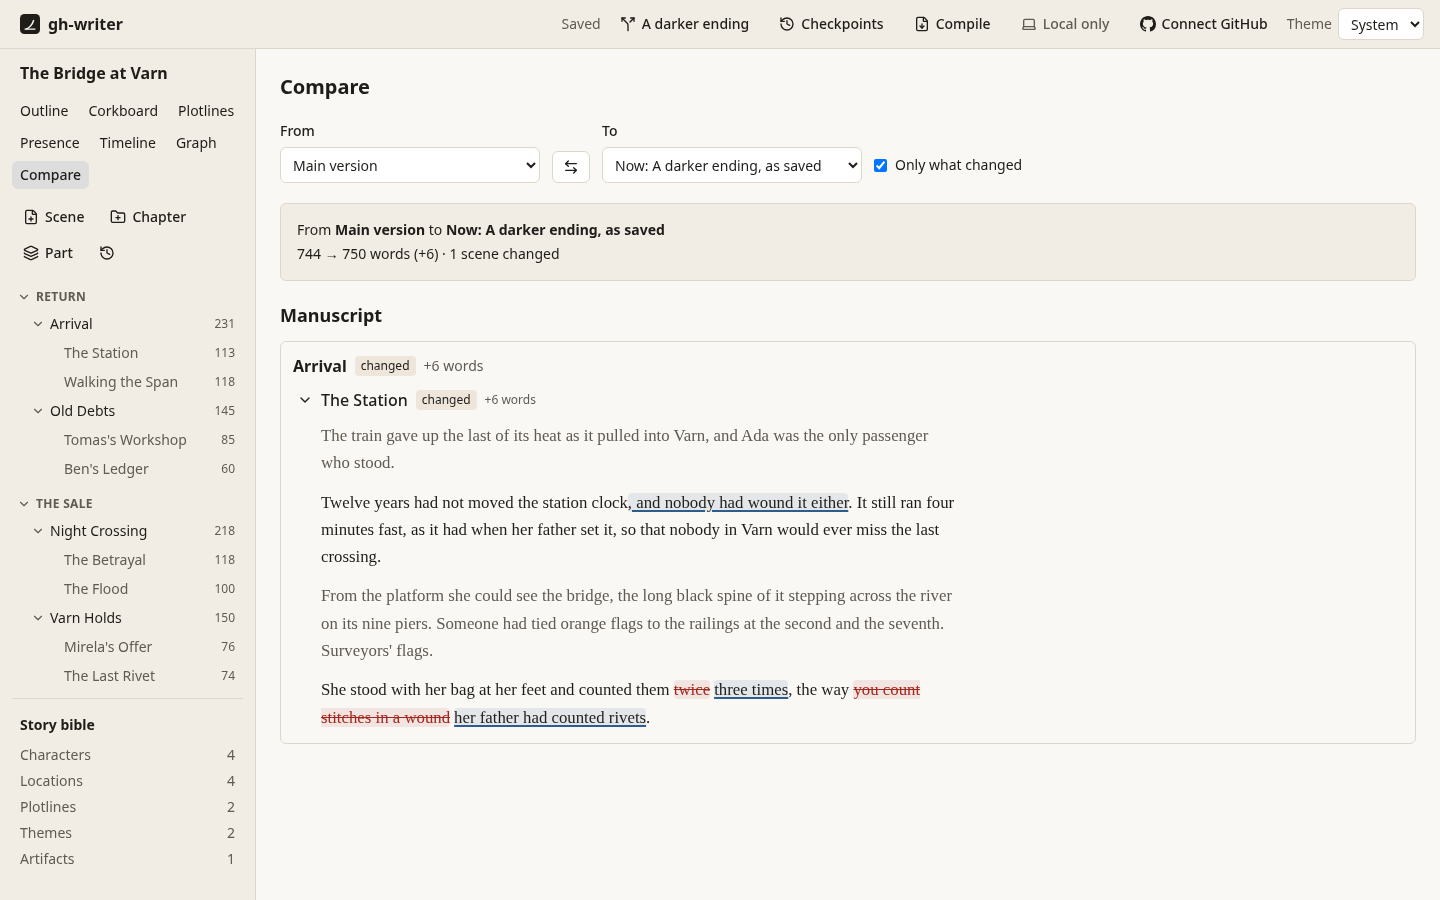
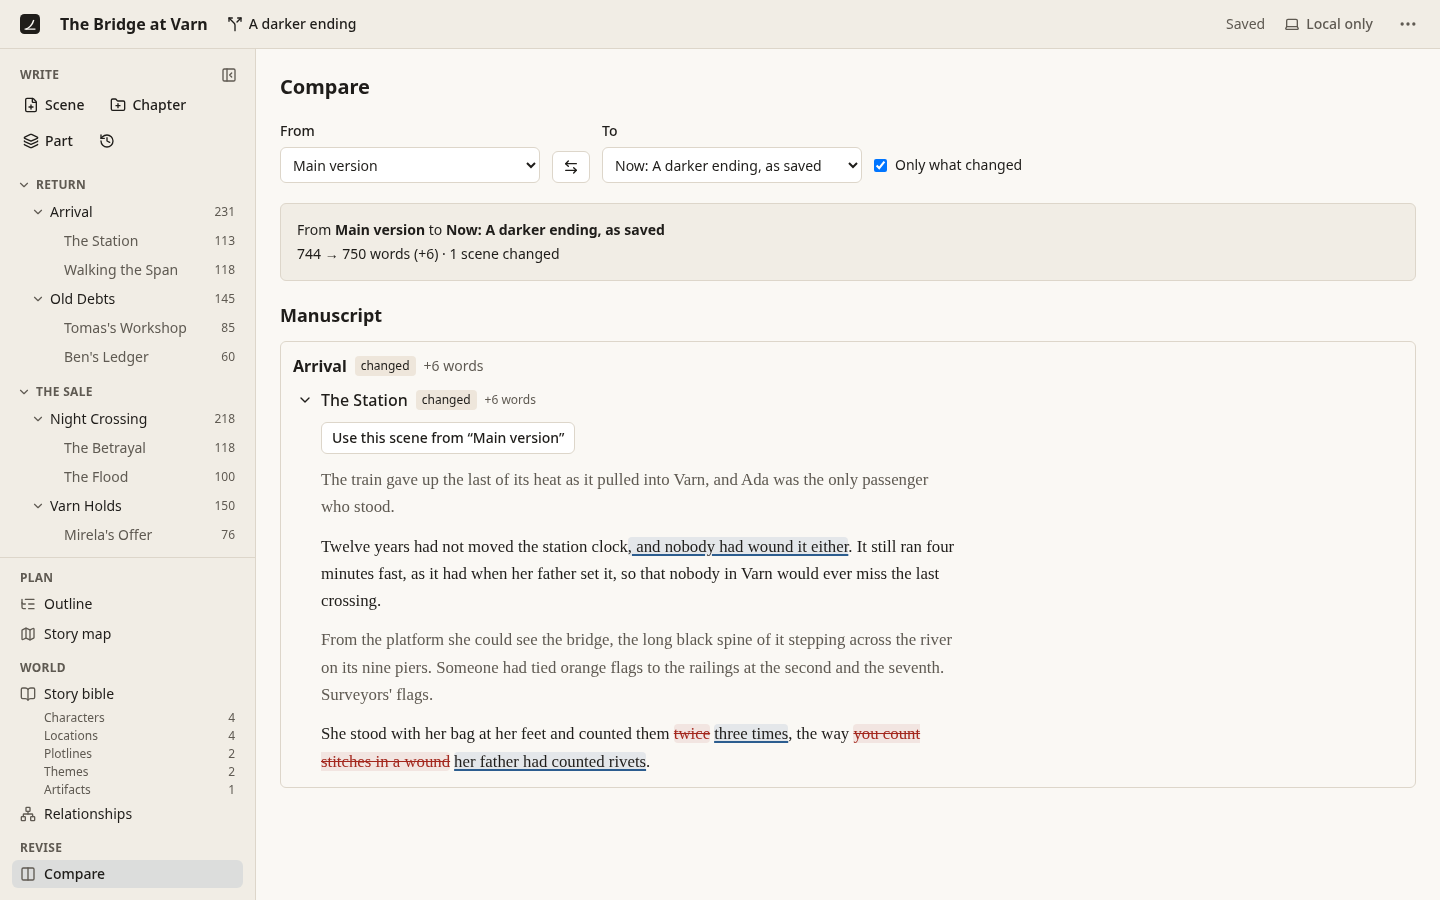
Document the new navigation, and retake the screenshots
USER.md has a Finding your way section (the top bar and its ⋯ menu, the
sidebar's Write, Plan, World and Revise groups and how to collapse it);
Outline as table or cards; the Story map's tabs and Relationships; and
Drafts, versions with their checkpoints, replacing the separate
Versions and Checkpoints sections. The README describes the calmer shell
and Drafts, with screenshots of the outline as cards, Relationships and
Drafts; the corkboard and graph screenshots are gone. Every screenshot
is retaken (npm run screenshots -w @gh-writer/web).

On the Story map's tabs, each view's Export (and New off-page event)
sits at the right again: the view's own title is now a hidden heading.

Refs #142

diff --git a/packages/web/e2e/screenshots.ts b/packages/web/e2e/screenshots.ts
@@ -3,7 +3,6 @@ import type { Page } from "@playwright/test";
 import { expect, test, type App } from "./fixtures.ts";
 
 const out = (name: string) => fileURLToPath(new URL(`../../../docs/screenshots/${name}.png`, import.meta.url));
-const views = (page: Page) => page.getByRole("navigation", { name: "Views" });
 
 /** Let transitions and fonts settle, then shoot. */
 async function shoot(page: Page, name: string) {
@@ -34,12 +33,39 @@ test("the writing view, light and dark, with a mention card", async ({ page, app
 });
 
 test("planning views", async ({ page, app }) => {
-  await open(page, app);
-  for (const [link, name] of [["Outline", "outline"], ["Corkboard", "corkboard"], ["Plotlines", "plotlines"], ["Presence", "presence"], ["Timeline", "timeline"], ["Graph", "graph"]] as const) {
-    await views(page).getByRole("link", { name: link }).click();
+  const id = await open(page, app);
+  for (const [path, name] of [
+    ["outline/table", "outline"],
+    ["outline/cards", "outline-cards"],
+    ["story-map/plotlines", "plotlines"],
+    ["story-map/presence", "presence"],
+    ["story-map/timeline", "timeline"],
+    ["relationships", "relationships"],
+  ] as const) {
+    await page.goto(new URL(`/novels/${id}/${path}`, app.url).href);
     await page.waitForTimeout(1200);
     await shoot(page, name);
   }
+});
+
+test("drafts: versions with their checkpoints", async ({ page, app }) => {
+  await open(page, app);
+  const drafts = page.getByRole("dialog", { name: "Drafts" });
+  await page.getByRole("button", { name: "Drafts: Main version is open" }).click();
+  await drafts.getByRole("textbox", { name: "New checkpoint" }).fill("First draft");
+  await drafts.getByRole("button", { name: "Make checkpoint" }).click();
+  await expect(drafts.getByRole("listitem")).toHaveCount(1);
+  await drafts.getByRole("textbox", { name: "New version" }).fill("A darker ending");
+  await drafts.getByRole("button", { name: "Start version" }).click();
+  await expect(page.getByRole("button", { name: "Drafts: A darker ending is open" })).toBeVisible();
+  await page.getByRole("button", { name: "Dismiss" }).click();
+  await page.getByRole("button", { name: "Drafts: A darker ending is open" }).click();
+  await drafts.getByRole("textbox", { name: "New checkpoint" }).fill("Bridge falls");
+  await drafts.getByRole("button", { name: "Make checkpoint" }).click();
+  await expect(drafts.getByRole("group", { name: "A darker ending" }).getByRole("listitem")).toHaveCount(1);
+  await drafts.getByRole("button", { name: /Checkpoints in “Main version”/ }).click();
+  await drafts.getByRole("textbox", { name: "New checkpoint" }).blur();
+  await shoot(page, "drafts");
 });
 
 test("the story bible", async ({ page, app }) => {
@@ -79,7 +105,7 @@ test("issues on GitHub", async ({ page, app }) => {
   app.github.addIssue("ada", "varn", { title: "Why does Mirela trust Ada so quickly?", labels: ["kind/plot-hole", "character/mirela-kost"] });
   app.github.addIssue("ada", "varn", { title: "Tighten the ledger scene", labels: ["kind/revision"] });
   await page.reload();
-  await views(page).getByRole("link", { name: "Issues" }).click();
+  await page.getByRole("navigation", { name: "Views" }).getByRole("link", { name: "Issues" }).click();
   await page.waitForTimeout(1200);
   await shoot(page, "issues");
 });

diff --git a/packages/web/src/presence/presence-page.tsx b/packages/web/src/presence/presence-page.tsx
@@ -101,7 +101,7 @@ export function PresencePage({ novelId, novel, workspace }: { novelId: string; n
 
   return (
     <div className="grid content-start gap-3 px-6 py-4">
-      <div className="flex flex-wrap items-baseline justify-between gap-3">
+      <div className="flex flex-wrap items-baseline justify-end gap-3">
         <h2 className="sr-only">Presence</h2>
         <ExportMenu name={`presence-${plural(label).toLowerCase()}`} svg={() => presenceSvg(novel, type, `${plural(label)} by scene`)} />
       </div>

diff --git a/packages/web/src/timeline/timeline-page.tsx b/packages/web/src/timeline/timeline-page.tsx
@@ -55,7 +55,7 @@ export function TimelinePage({ novelId, novel }: { novelId: string; novel: Novel
 
   return (
     <div className="grid content-start gap-4 px-6 py-4">
-      <div className="flex flex-wrap items-baseline justify-between gap-3">
+      <div className="flex flex-wrap items-baseline justify-end gap-3">
         <h2 className="sr-only">Timeline</h2>
         <div className="flex gap-2">
           <Button size="sm" onClick={() => setEditing("new")}>

diff --git a/packages/web/src/swimlanes/swimlanes-page.tsx b/packages/web/src/swimlanes/swimlanes-page.tsx
@@ -101,7 +101,7 @@ export function SwimlanesPage({ novelId, novel, workspace }: { novelId: string; 
 
   return (
     <div className="grid content-start gap-3 px-6 py-4">
-      <div className="flex flex-wrap items-baseline justify-between gap-3">
+      <div className="flex flex-wrap items-baseline justify-end gap-3">
         <h2 className="sr-only">Plotlines</h2>
         <ExportMenu name="plotlines" svg={() => plotlinesSvg(novel)} />
       </div>

diff --git a/USER.md b/USER.md
@@ -2,7 +2,7 @@
 
 This guide is for the person writing the book. It assumes gh-writer is installed and running (see [Getting started](README.md#getting-started)). You don't need to know git or GitHub: gh-writer uses them for you, and this guide says what happens in plain terms.
 
-**Contents:** [Your library](#your-library) · [Writing](#writing) · [Structure](#structure-parts-chapters-and-scenes) · [The story bible](#the-story-bible) · [Diagrams](#diagrams) · [Saving, sync and checkpoints](#saving-sync-and-checkpoints) · [Versions and comparing](#versions-and-comparing) · [GitHub](#github) · [Issues](#issues) · [Compiling](#compiling) · [Keyboard](#keyboard) · [Your files](#your-files) · [The command line](#the-command-line)
+**Contents:** [Your library](#your-library) · [Finding your way](#finding-your-way) · [Writing](#writing) · [Structure](#structure-parts-chapters-and-scenes) · [The story bible](#the-story-bible) · [Story map and relationships](#story-map-and-relationships) · [Saving and sync](#saving-and-sync) · [Drafts: versions and checkpoints](#drafts-versions-and-checkpoints) · [GitHub](#github) · [Issues](#issues) · [Compiling](#compiling) · [Keyboard](#keyboard) · [Your files](#your-files) · [The command line](#the-command-line)
 
 ## Your library
 
@@ -13,6 +13,19 @@ This guide is for the person writing the book. It assumes gh-writer is installed
 - **Clone from GitHub** copies a novel from GitHub, after you've connected (see [GitHub](#github)), listing your repositories to choose from.
 
 `npx gh-writer serve path/to/novel` opens one novel directly. Taking a novel out of the library leaves its folder alone.
+
+## Finding your way
+
+**The top bar** names the book and the version open (choose it to open [Drafts](#drafts-versions-and-checkpoints)), says whether your work is saved and synced, and keeps everything else in its **⋯** menu: Checkpoints, Compile, the theme (light, dark, or like your system), your GitHub account, and the keyboard shortcuts.
+
+**The sidebar** groups everything by what you're doing:
+
+- **Write**: the manuscript, as a tree of parts, chapters and scenes.
+- **Plan**: the **Outline**, as a table or as cards, and the **Story map** (plotlines, presence and the timeline).
+- **World**: the **Story bible** and the **Relationships** between its entries.
+- **Revise**: **Compare** two drafts, and **Issues** for a novel on GitHub.
+
+Collapse it to a strip of icons with the button at its top, or Ctrl+\\ (⌘\\ on a Mac); it stays that way until you open it again. **Focus mode** hides it, and the top bar, altogether.
 
 ## Writing
 
@@ -30,58 +43,74 @@ Choose a chapter or scene in the tree on the left. A chapter opens as one contin
 
 The tree on the left holds the book. **Scene**, **Chapter** and **Part** add one after the selection; F2 renames, Alt+↑ / Alt+↓ move, Delete deletes (deleted things wait in **Recently deleted**). You can drag in the tree, too. In the command palette, *Split the scene at the caret*, *Merge scene with the next* and *Move scene to chapter…* reshape scenes.
 
-- **Outline** lists every scene with its synopsis, status, point of view, characters, plotlines and word count; edit the synopsis and status in place, and drag to reorder.
-- **Corkboard** shows scenes as cards by chapter. Filter by point of view, character, plotline or status; drag cards to reorder.
+**Outline** shows every scene in reading order, two ways; switch with **Table** and **Cards** at its top, and it remembers which you like:
+
+- **Table**: each scene's synopsis, status, point of view, characters, plotlines and word count; edit the synopsis and status in place, and drag to reorder.
+- **Cards**: scenes as index cards by chapter, filtered by point of view, character, plotline or status; drag cards to reorder.
+
+![The outline as cards](docs/screenshots/outline-cards.png)
 
 ## The story bible
 
 **Story bible** in the left panel lists characters, locations, plotlines, themes and any types of your own (an "Artifacts" type in the sample novel, say). Each entry has a name, other names (recognised when you type `@`), a summary, fields of your choice, tags and notes.
 
-Relationships (sibling of, mentor of, allied with…) live on the entries' pages, each from a scene and, if it ends, until a scene. The kinds of relationship are yours to define in `novel.yaml`. Off-page events, like a flood years before the story starts, live on the **Timeline**.
+Relationships (sibling of, mentor of, allied with…) live on the entries' pages, each from a scene and, if it ends, until a scene. The kinds of relationship are yours to define in `novel.yaml`. Off-page events, like a flood years before the story starts, live on the story map's **Timeline**.
 
 ![A character's page in the story bible](docs/screenshots/bible.png)
 
-## Diagrams
+## Story map and relationships
 
-Each has an **Export** button for SVG; the graph and timeline also export Mermaid.
+The **Story map** sets the story's elements against its scenes, in three tabs (←/→ move between them):
 
-- **Graph**: the relationship graph. Drag the *Story position* slider, or press **Play**, to see relationships begin and end as the story goes. Arrange nodes by dragging; the layout is saved.
 - **Plotlines**: a row per plotline, a column per scene, with major and minor beats; stretches where a plotline goes quiet too long are shaded and listed.
 - **Presence**: which characters (or themes) are in which scenes.
 - **Timeline**: the book in story time, joined by lines to reading order, so flashbacks stand out; and anyone who is in two places at once is listed.
 
+**Relationships**, under World, draws the story bible's relationships as a graph. Drag the *Story position* slider, or press **Play**, to see relationships begin and end as the story goes. Arrange entries by dragging; the layout is saved.
+
+Each has an **Export** button for SVG; the relationships and the timeline also export Mermaid.
+
 ![Who is in which scene](docs/screenshots/presence.png)
 
-## Saving, sync and checkpoints
+## Saving and sync
 
-**Saving is automatic.** The header says *Saved*, *Saving…* or *Unsaved*; typed words are kept even if the app or the browser closes unexpectedly. If a file you're editing changes somewhere else (another computer, or a text editor), gh-writer shows both versions side by side so you choose what to keep.
+**Saving is automatic.** The top bar says *Saved*, *Saving…* or *Unsaved*; typed words are kept even if the app or the browser closes unexpectedly. If a file you're editing changes somewhere else (another computer, or a text editor), gh-writer shows both versions side by side so you choose what to keep.
 
-**Sync**: with a novel on GitHub, gh-writer brings in changes and sends yours every few minutes, and when you choose *Sync now*. The header shows whether you're synced. If the same passage was changed in two places, *Resolve sync conflicts* walks you through each one.
+**Sync**: with a novel on GitHub, gh-writer brings in changes and sends yours every few minutes, and when you choose *Sync now*. The top bar shows whether you're synced. If the same passage was changed in two places, *Resolve sync conflicts* walks you through each one.
 
-**Checkpoints** are named drafts: points in the book's history, like "Before the big cut". Make one from **Checkpoints** in the header. Later, restore the whole manuscript and story bible from it, or just one scene, or **Compare with now** to see what has changed since. A restore first takes a checkpoint of its own, so a restore can always be undone.
+## Drafts: versions and checkpoints
 
-## Versions and comparing
+**Drafts** (the version's name in the top bar, or *Checkpoints* in the ⋯ menu) holds the book's history:
 
-A **version** is another take on the book that lives alongside the main one: a darker ending, the book without a subplot. It has its own text and story bible; the main version stays exactly as it was. The header names the version you're in.
+- A **version** is a separate take on the book that lives alongside the main one: a darker ending, the book without a subplot. It has its own text and story bible; the main version stays exactly as it was.
+- A **checkpoint** is a named moment in a version, like "Before the big cut", to come back to.
 
-- **Start one** from **Versions** in the header: name it and choose *Start version*. It begins as a copy of the version you're in, and opens. Everything you write now goes into it.
-- **Switch** between versions in the same panel, or with *Open version: …* in the command palette. What you've typed is saved first. If the chapter you're in doesn't exist in the other version, the book opens at its start.
+Drafts lists the version open now first, with *New checkpoint* and its checkpoints; then the other versions, each with its own checkpoints; then any you've discarded.
+
+![Drafts: the open version with its checkpoint, and the main version with its own](docs/screenshots/drafts.png)
+
+**Checkpoints.** Make one in the version you're in. Later, **Restore manuscript** brings the whole manuscript and story bible back as they were then, or **Restore “scene”** just the scene you're in; **Compare with now** shows what has changed since. A restore first takes a checkpoint of its own, so it can always be undone. Restoring a checkpoint from another version brings that version's text into the one open, and Drafts asks first. gh-writer also takes checkpoints by itself before anything it changes for you (a restore, adopting a version); tick *Show the checkpoints gh-writer made* to see them.
+
+**Versions.**
+
+- **Start one** under *Start a new version*: name it and choose *Start version*. It begins as a copy of the version you're in, and opens. Everything you write now goes into it.
+- **Open** another version from Drafts, or with *Open version: …* in the command palette. What you've typed is saved first. If the chapter you're in doesn't exist in the other version, the book opens at its start.
 - **Compare** shows exactly what's different (see below).
 - **Adopt into main** when the version is the one you want: the main version opens and takes the version's changes. Anything you changed in the main version since the version began is kept too; where both changed the same passage, you choose, side by side, as with sync conflicts. The main version is kept in a checkpoint first, so *Undo* puts it back.
 - **Bring single scenes across** instead, from the compare view: *Use this scene from “…”* copies that scene's text and details into the version you're in.
-- **Discard** a version you don't want. It's kept in a checkpoint first; *Bring it back* in the notice (or a new version started from that checkpoint) restores it.
+- **Discard** a version you don't want. It's kept first, under *Discarded versions* in Drafts; *Bring it back* there (or in the notice) restores it.
 
 With a novel on GitHub, versions sync like everything else, so your other computers have them too. Discarding one removes it there at the next sync.
 
-**Compare** (in the views, the command palette, and the Versions and Checkpoints panels) sets any two of *now*, a version and a checkpoint side by side. It lists every chapter and scene that changed, with word counts before and after; open a scene to read its text with deleted words struck through and new words underlined, so a reworded sentence shows just the words that changed. Changes to a scene's details (status, point of view, characters…), the story bible, relationships and off-page events are listed too. Untick *Only what changed* to see the whole book.
+**Compare** (under Revise, in the command palette, and in Drafts) sets any two of *now*, a version and a checkpoint side by side. It lists every chapter and scene that changed, with word counts before and after; open a scene to read its text with deleted words struck through and new words underlined, so a reworded sentence shows just the words that changed. Changes to a scene's details (status, point of view, characters…), the story bible, relationships and off-page events are listed too. Untick *Only what changed* to see the whole book.
 
 ![Comparing a version with the main one](docs/screenshots/compare.png)
 
 ## GitHub
 
-**Connect GitHub** in the header signs you in: gh-writer shows a code to enter on github.com. If you already use GitHub's `gh` command, you can sign in with that instead. Your sign-in stays in your computer's keychain.
+**Connect GitHub…** in the ⋯ menu signs you in: gh-writer shows a code to enter on github.com. If you already use GitHub's `gh` command, you can sign in with that instead. Your sign-in stays in your computer's keychain.
 
-A novel that's only on this computer says **Local only** in the header; choose it to **put it on GitHub** as a new private or public repository. From then on it syncs, and the GitHub features below appear; for a local-only novel they stay out of the way.
+A novel that's only on this computer says **Local only** in the top bar; choose it to **put it on GitHub** as a new private or public repository. From then on it syncs, and the GitHub features below appear; for a local-only novel they stay out of the way.
 
 On github.com, the novel's repository shows the book as files, keeps every version, and runs a few automatic workflows: **Validate** checks the files on every push, **Diagrams** redraws the diagram snapshots into `diagrams/`, and **Compile** makes a Release for each named checkpoint (see [Compiling](#compiling)).
 
@@ -97,7 +126,7 @@ Issues are for the work around the book: plot holes, continuity errors, research
 
 ## Compiling
 
-**Compile** in the header (or *Compile the manuscript…*) makes the book into files to share:
+**Compile…** in the ⋯ menu (or *Compile the manuscript…* in the command palette) makes the book into files to share:
 
 - **Word (DOCX)** in standard manuscript format, for agents and editors: a title page with your contact details and word count, Times New Roman 12 pt double-spaced, a running header, chapters on new pages, "THE END".
 - **E-book (EPUB)** for readers and e-readers.
@@ -113,7 +142,7 @@ Compile the whole book or a range of chapters. Anything you've just typed is sav
 
 ## Keyboard
 
-Everything is reachable from the keyboard. **Ctrl+K** opens the command palette, which can do anything in the app: go to a chapter or scene, open a view, make a checkpoint, sync, change the theme. **Ctrl+/** lists the keyboard shortcuts.
+Everything is reachable from the keyboard. **Ctrl+K** opens the command palette, which can do anything in the app: go to a chapter or scene, open a view, make a checkpoint, sync, change the theme. **Ctrl+/** lists the keyboard shortcuts, and **Ctrl+\\** collapses or expands the sidebar.
 
 ![The command palette](docs/screenshots/palette.png)
 

diff --git a/README.md b/README.md
@@ -19,32 +19,37 @@
 
 ### Plan
 
-- **Manuscript structure**: parts, chapters and scenes in a tree you can rearrange with the keyboard or by dragging; an **outline** and a **corkboard** of scene cards, filtered by point of view, character, plotline or status.
-- **A story bible** of characters, locations, plotlines, themes and types you invent, with relationships that start and end at particular scenes.
-- **Diagrams**, all exportable as SVG (and some as Mermaid):
-  - a **relationship graph** with a slider to step through the story and watch alliances change;
-  - **plotline swimlanes** showing each plotline's beats scene by scene, and where one goes quiet;
-  - **presence matrices** of which characters and themes appear in which scenes;
+- **Manuscript structure**: parts, chapters and scenes in a tree you can rearrange with the keyboard or by dragging, and an **outline** of every scene as a table or as index cards, filtered by point of view, character, plotline or status.
+- **A story bible** of characters, locations, plotlines, themes and types you invent, with relationships that start and end at particular scenes, drawn as a **relationship graph** with a slider to step through the story and watch alliances change.
+- **A story map** of the story's elements against its scenes, all exportable as SVG (and some as Mermaid):
+  - **plotlines** showing each one's beats scene by scene, and where one goes quiet;
+  - **presence** of characters and themes in each scene;
   - a **timeline** setting story time against reading order, flashbacks and off-page events included.
 
 <table>
   <tr>
-    <td><img src="docs/screenshots/corkboard.png" alt="The corkboard: scene cards grouped by chapter"></td>
-    <td><img src="docs/screenshots/graph.png" alt="The relationship graph at the first scene"></td>
+    <td><img src="docs/screenshots/outline-cards.png" alt="The outline as cards: scenes grouped by chapter"></td>
+    <td><img src="docs/screenshots/relationships.png" alt="The relationship graph at the first scene"></td>
   </tr>
   <tr>
-    <td><img src="docs/screenshots/plotlines.png" alt="Plotline swimlanes: beats by scene"></td>
+    <td><img src="docs/screenshots/plotlines.png" alt="The story map's plotlines: beats by scene"></td>
     <td><img src="docs/screenshots/timeline.png" alt="The timeline: story time against reading order"></td>
   </tr>
 </table>
 
 ### Revise
 
-- **Checkpoints** are named drafts: points in the book's history ("Before the big cut") to restore the whole manuscript, or one scene, from. Every restore can be undone.
+- **Drafts** hold the book's history in one place: its versions, each with its checkpoints.
+- **Checkpoints** are named moments in a version ("Before the big cut") to restore the whole manuscript, or one scene, from. Every restore can be undone.
 - **Versions** let you try a different ending or a big cut alongside the main book, prose and story bible both. Switch between them whenever you like, then **adopt** one into the main version (what changed in the main version meanwhile is kept) or **bring single scenes across**, or discard it, kept in a checkpoint in case you want it back.
 - **Compare** any two of now, a version and a checkpoint, the way an editor marks up a manuscript: deleted words struck through, inserted words underlined, scene by scene, with what changed in each scene's details, the story bible and the relationships, and word counts before and after.
 
-![Comparing a version with the main one: changed words marked in the scene's text](docs/screenshots/compare.png)
+<table>
+  <tr>
+    <td><img src="docs/screenshots/drafts.png" alt="Drafts: the open version with its checkpoint, and the main version with its own"></td>
+    <td><img src="docs/screenshots/compare.png" alt="Comparing a version with the main one: changed words marked in the scene's text"></td>
+  </tr>
+</table>
 
 ### Work with GitHub
 
@@ -64,7 +69,7 @@
 
 Everything is in plain files: one Markdown file per scene, one per bible entry, YAML for structure and relationships. You can edit them on github.com or in any text editor, and a validator (run on every push) catches broken references. The format is specified in [docs/format/v1.md](docs/format/v1.md).
 
-The app is keyboard-first and accessible: a command palette (Ctrl+K / ⌘K) reaches everything, every view works without a mouse, it follows your light or dark setting, and its screens are checked with axe in the test suite.
+The app stays calm as it grows: a sidebar grouped by what you're doing (write, plan, world, revise) that folds away to icons, and a top bar with just the book, its version, save and sync status, and a ⋯ menu for the rest. It's keyboard-first and accessible: a command palette (Ctrl+K / ⌘K) reaches everything, every view works without a mouse, it follows your light or dark setting, and its screens are checked with axe in the test suite.
 
 ## Getting started
 
